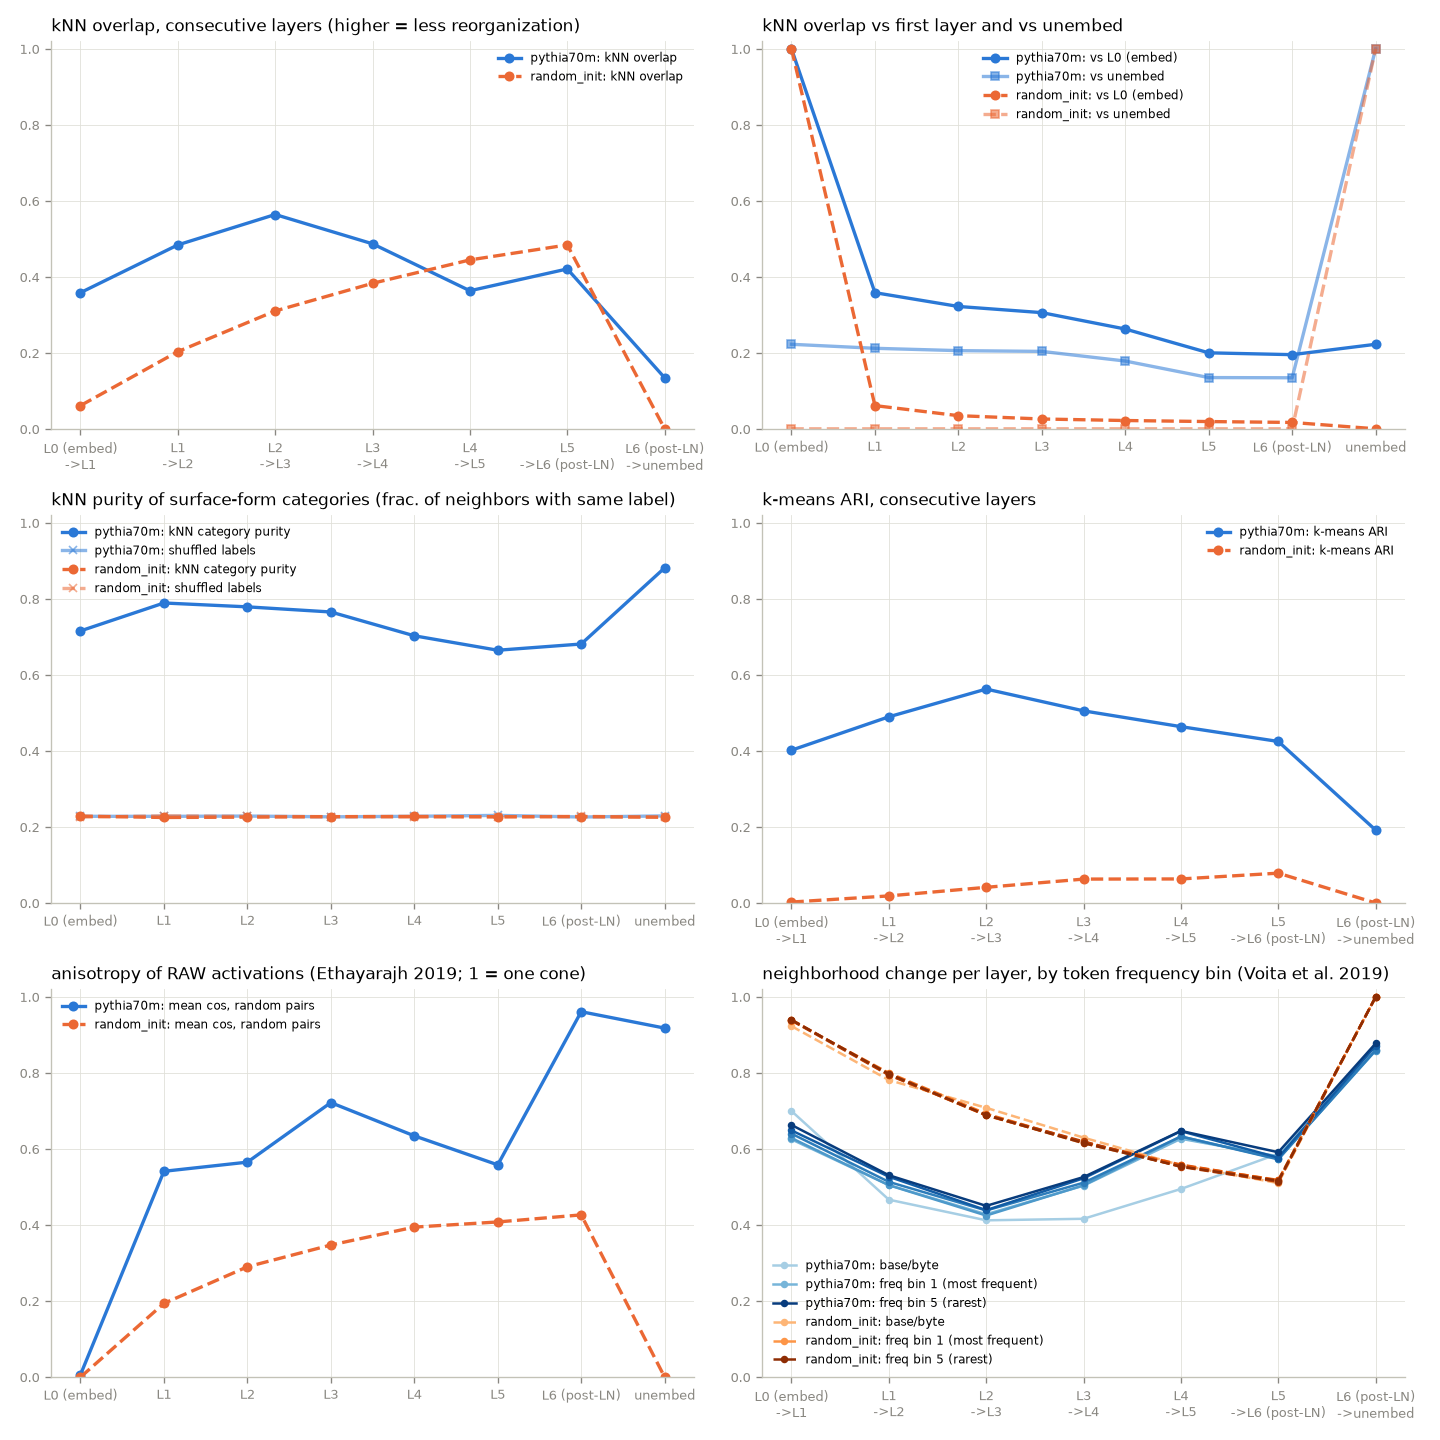
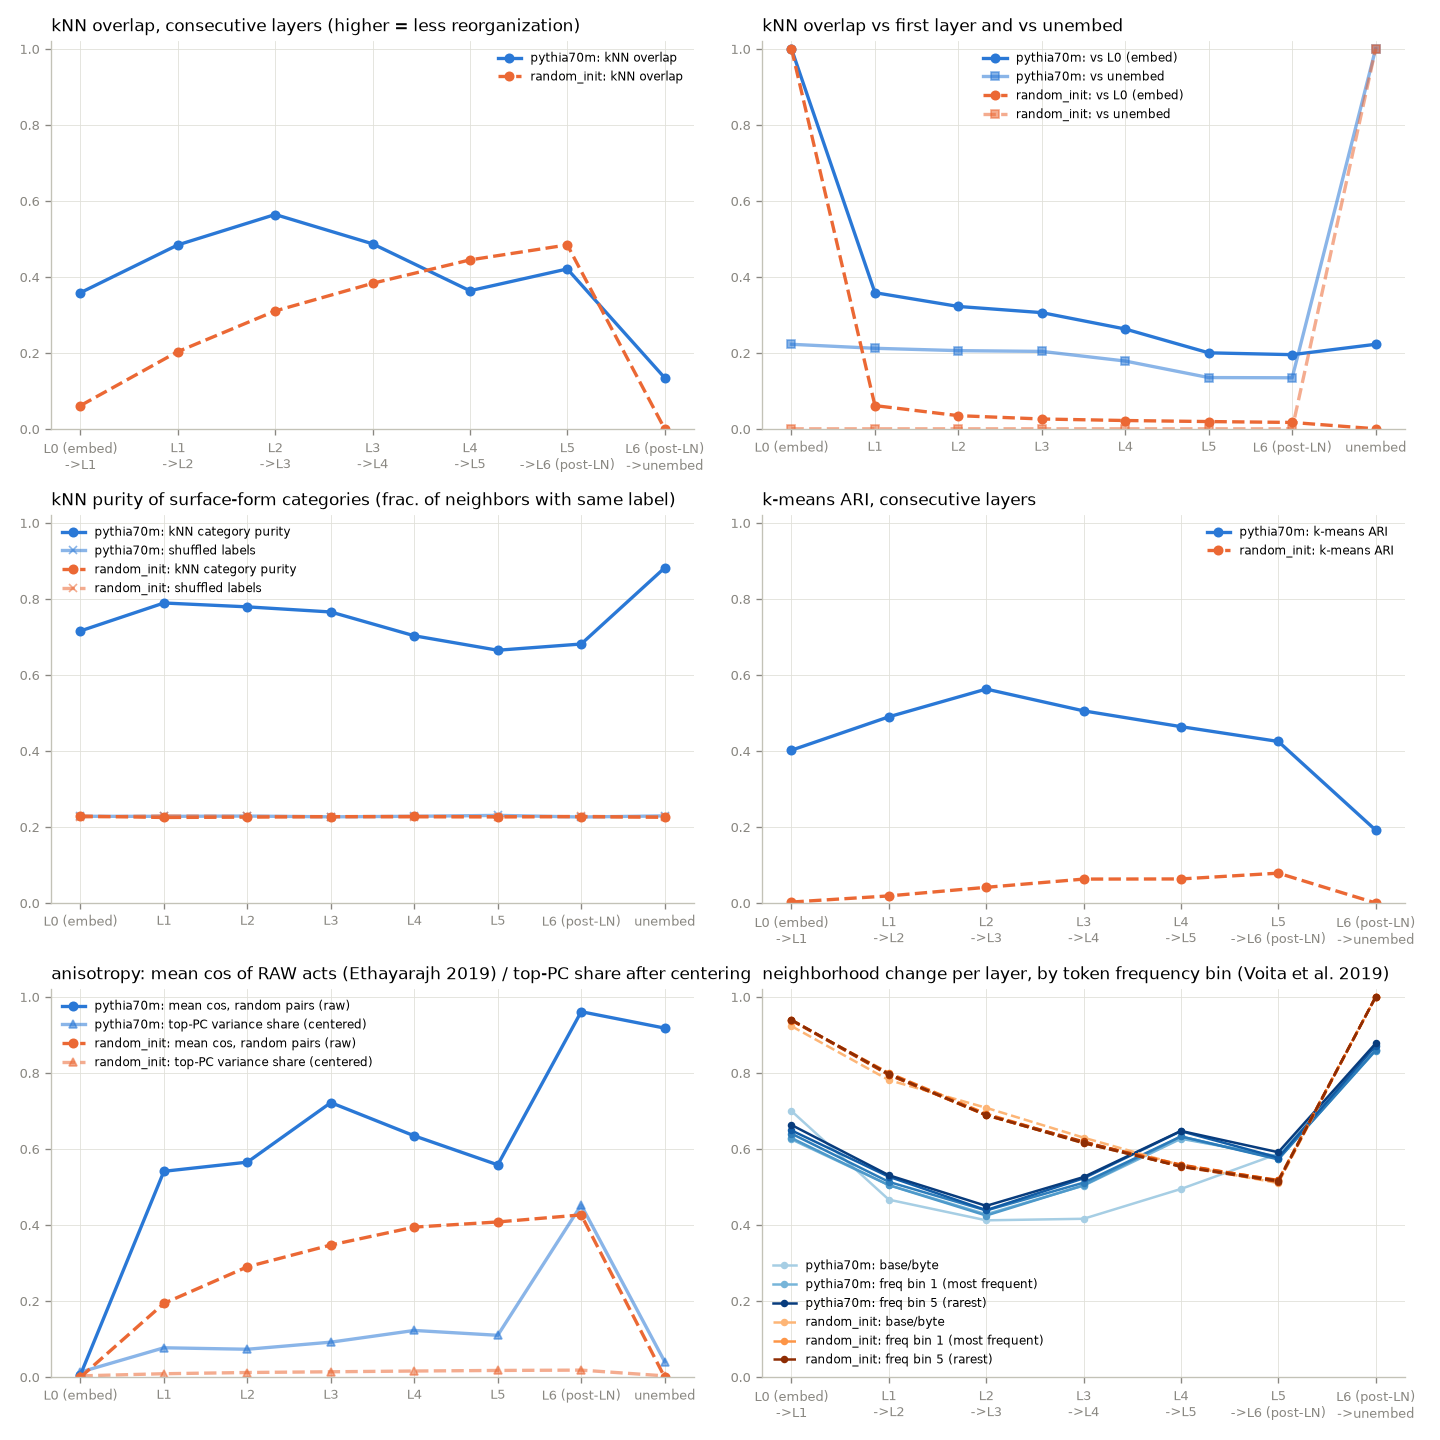
metrics: top-PC variance share (centered) on the anisotropy panel
Mean cosine of random pairs only sees a shared offset; a centered cigar reads 0.
top_pc_share() centers a raw layer and reports the fraction of variance on the
first PC, so the panel now shows offset (circles) and stretch (triangles) side by
side. Reran metrics for pythia70m, random_init, gpt2; refreshed the README figures.

diff --git a/src/token_drift/viz.py b/src/token_drift/viz.py
@@ -202,7 +202,13 @@ def plot_metrics(runs: dict[str, dict], out_path: str | Path, *, return_fig: boo
         ax_sil.plot(x_l, m["knn_purity"], ls, label=f"{run}: kNN category purity", **kw)
         ax_sil.plot(x_l, m["knn_purity_shuffled"], ls, label=f"{run}: shuffled labels", **{**kw, "marker": "x", "alpha": 0.55})
         if m.get("anisotropy") is not None:
-            ax_aniso.plot(x_l, m["anisotropy"], ls, label=f"{run}: mean cos, random pairs", **kw)
+            ax_aniso.plot(x_l, m["anisotropy"], ls, label=f"{run}: mean cos, random pairs (raw)", **kw)
+        if m.get("top_pc_share") is not None:
+            # same colour + linestyle as the run's mean-cos line, triangle marker + faded: the
+            # panel's other series, like "vs last" in the drift panel. Not a separate dash style,
+            # because "--" already means "second run".
+            ax_aniso.plot(x_l, m["top_pc_share"], ls, label=f"{run}: top-PC variance share (centered)",
+                          **{**kw, "marker": "^", "alpha": 0.55})
         if m.get("knn_change_by_freq") is not None:
             # one line per frequency bin, single hue light->dark: bin is a magnitude (rank), not an identity
             by_freq = np.asarray(m["knn_change_by_freq"], dtype=float)  # (transitions, bins)
@@ -224,7 +230,7 @@ def plot_metrics(runs: dict[str, dict], out_path: str | Path, *, return_fig: boo
     ax_drift.set_title("kNN overlap vs first layer and vs unembed", loc="left", fontsize=10)
     ax_sil.set_title("kNN purity of surface-form categories (frac. of neighbors with same label)", loc="left", fontsize=10)
     ax_ari.set_title("k-means ARI, consecutive layers", loc="left", fontsize=10)
-    ax_aniso.set_title("anisotropy of RAW activations (Ethayarajh 2019; 1 = one cone)", loc="left", fontsize=10)
+    ax_aniso.set_title("anisotropy: mean cos of RAW acts (Ethayarajh 2019) / top-PC share after centering", loc="left", fontsize=10)
     ax_freq.set_title("neighborhood change per layer, by token frequency bin (Voita et al. 2019)", loc="left", fontsize=10)
     for ax in axes.flat:
         _style_axes(ax)

diff --git a/src/token_drift/metrics.py b/src/token_drift/metrics.py
@@ -62,6 +62,19 @@ def anisotropy(x: np.ndarray, *, n_pairs: int = 4000, seed: int = 0) -> float:
     return float((xn[i[keep]] * xn[j[keep]]).sum(1).mean())
 
 
+def top_pc_share(x: np.ndarray) -> float:
+    """Fraction of total variance carried by the top principal component, after centering.
+
+    The shape check mean-cosine anisotropy can't do. A shared offset makes every random
+    pair's cosine high but vanishes under centering; a single stretched coordinate (a
+    "massive activation" dimension) survives centering and shows up here instead.
+    """
+    x = np.asarray(x, dtype=np.float32)
+    x = x - x.mean(0)
+    s = np.linalg.svd(x, compute_uv=False)  # singular values; s**2 are the PC variances
+    return float(s[0] ** 2 / (s**2).sum())
+
+
 def _per_row_change(a: np.ndarray, b: np.ndarray) -> np.ndarray:
     k = a.shape[1]
     inter = np.array([len(np.intersect1d(ra, rb)) for ra, rb in zip(a, b)])
@@ -135,9 +148,11 @@ def compute_all(
 
     knn = [knn_indices(x, knn_k) for x in xs]
     L = len(xs)
-    aniso = None
+    aniso = pc_share = None
     if raw_layers is not None:
-        aniso = [anisotropy(np.asarray(r[idx], dtype=np.float32), seed=seed) for r in raw_layers]
+        raws = [np.asarray(r[idx], dtype=np.float32) for r in raw_layers]
+        aniso = [anisotropy(r, seed=seed) for r in raws]
+        pc_share = [top_pc_share(r) for r in raws]  # centers internally; raw in, shape out
     by_freq = None
     if freq_bins is not None:
         fb = np.asarray(freq_bins)[idx]
@@ -160,6 +175,7 @@ def compute_all(
             kmeans_ari(xs[i], xs[i + 1], kmeans_k, seed) for i in range(L - 1)
         ],
         "anisotropy": aniso,
+        "top_pc_share": pc_share,
         "knn_change_by_freq": by_freq,
         "n_freq_bins": n_freq_bins if freq_bins is not None else None,
     }

diff --git a/tests/test_metrics.py b/tests/test_metrics.py
@@ -141,6 +141,21 @@ def test_anisotropy_is_mean_cosine_of_random_pairs(rng):
     assert anisotropy(cone, n_pairs=5000, seed=0) > 0.9
 
 
+def test_top_pc_share_sees_a_stretch_but_not_an_offset(rng):
+    from token_drift.metrics import anisotropy, top_pc_share
+
+    d = 64
+    iso = rng.normal(size=(3000, d))
+    assert top_pc_share(iso) < 3 / d  # isotropic: every PC ~1/d of the variance
+    stretched = iso.copy()
+    stretched[:, 0] *= 30  # one massive dimension
+    assert top_pc_share(stretched) > 0.9
+    # a shared offset makes mean-cos anisotropy fire but is NOT a variance direction
+    offset = iso + 50.0
+    assert anisotropy(offset, n_pairs=2000) > 0.9
+    assert top_pc_share(offset) < 3 / d
+
+
 def test_anisotropy_is_seeded(rng):
     from token_drift.metrics import anisotropy
 
@@ -175,6 +190,8 @@ def test_compute_all_takes_raw_layers_and_freq_bins(clustered, rng):
         raw_layers=raw, freq_bins=bins, n_freq_bins=3,
     )
     assert len(m["anisotropy"]) == 2 and m["anisotropy"][0] > m["anisotropy"][1]
+    # scale + shift leaves the top-PC share alone: it's about shape after centering
+    assert len(m["top_pc_share"]) == 2 and abs(m["top_pc_share"][0] - m["top_pc_share"][1]) < 1e-4
     assert np.asarray(m["knn_change_by_freq"]).shape == (1, 3)  # transitions x bins
     assert m["n_freq_bins"] == 3
     import json; json.dumps(m)
@@ -183,4 +200,4 @@ def test_compute_all_takes_raw_layers_and_freq_bins(clustered, rng):
 def test_compute_all_without_extras_still_works(clustered):
     x, labels = clustered
     m = compute_all([x, x], ["a", "b"], labels, knn_k=5, kmeans_k=4, seed=0, subsample=None)
-    assert m["anisotropy"] is None and m["knn_change_by_freq"] is None
+    assert m["anisotropy"] is None and m["top_pc_share"] is None and m["knn_change_by_freq"] is None

diff --git a/tests/test_viz.py b/tests/test_viz.py
@@ -62,6 +62,7 @@ def _fake_metrics(rng, L=4):
         "silhouette_shuffled": (rng.uniform(size=L) * 0.01).tolist(),
         "kmeans_ari_consecutive": rng.uniform(size=L - 1).tolist(),
         "anisotropy": rng.uniform(size=L).tolist(),
+        "top_pc_share": rng.uniform(size=L).tolist(),
         "knn_change_by_freq": rng.uniform(size=(L - 1, 5)).tolist(),
         "n_freq_bins": 5,
     }
@@ -94,3 +95,18 @@ def test_plot_metrics_has_six_panels_and_tolerates_missing_extras(tmp_path, rng)
     m["knn_change_by_freq"] = None
     plot_metrics({"r": m}, tmp_path / "four.png")  # old-format metrics.json must still plot
     assert (tmp_path / "four.png").exists()
+
+
+def test_anisotropy_panel_gets_top_pc_share_line_when_present(tmp_path, rng):
+    import matplotlib.pyplot as plt
+
+    m = _fake_metrics(rng)
+    fig = plot_metrics({"r": m}, tmp_path / "a.png", return_fig=True)
+    ax_aniso = fig.axes[4]
+    labels = [ln.get_label() for ln in ax_aniso.get_lines()]
+    assert len(labels) == 2 and any("raw" in l for l in labels) and any("centered" in l for l in labels)
+    plt.close(fig)
+    del m["top_pc_share"]  # metrics.json from before the field existed
+    fig = plot_metrics({"r": m}, tmp_path / "b.png", return_fig=True)
+    assert len(fig.axes[4].get_lines()) == 1
+    plt.close(fig)

diff --git a/src/token_drift/cli.py b/src/token_drift/cli.py
@@ -144,7 +144,8 @@ def stage_metrics(cfg: dict) -> Path:
     viz.plot_cka_heatmap(result, out / "cka.png")
     typer.echo(f"[metrics] knn_consecutive={np.round(result['knn_consecutive'], 3).tolist()}")
     typer.echo(f"[metrics] knn_purity={np.round(result['knn_purity'], 3).tolist()}")
-    typer.echo(f"[metrics] anisotropy={np.round(result['anisotropy'], 3).tolist()} ({time.time() - t0:.0f}s)")
+    typer.echo(f"[metrics] anisotropy={np.round(result['anisotropy'], 3).tolist()}")
+    typer.echo(f"[metrics] top_pc_share={np.round(result['top_pc_share'], 3).tolist()} ({time.time() - t0:.0f}s)")
     return rd
 
 

diff --git a/tests/test_cli.py b/tests/test_cli.py
@@ -87,7 +87,7 @@ def test_stage_metrics_writes_json_and_plots(fake_extract):
     assert len(m["knn_consecutive"]) == L + 1
     assert (md / "metrics.png").exists() and (md / "cka.png").exists()
     # literature checks ride along: anisotropy on raw acts, change by frequency bin
-    assert len(m["anisotropy"]) == L + 2
+    assert len(m["anisotropy"]) == L + 2 and len(m["top_pc_share"]) == L + 2
     assert np.asarray(m["knn_change_by_freq"]).shape == (L + 1, 6)
 
 

diff --git a/docs/FINDINGS.md b/docs/FINDINGS.md
@@ -102,7 +102,8 @@ Mean cosine between random token pairs on the *raw* (uncentered) activations.
   architectural. Suspected mechanism in our setup: position 1 attends to BOS, the BOS
   value contribution is identical for every token, and the residual accumulates it.
 - Pythia's final LayerNorm is violent: mean row norm 14 at L5 -> 438 at L6, and the top
-  PC explains 41% of L6's variance vs 8% at L5. A massive-activation dimension. The
+  PC explains 45% of L6's centered variance vs 11% at L5 (the triangle line in the
+  anisotropy panel). A massive-activation dimension. The
   unembed's 0.92 is a mean offset, not a variance direction (top PC 5%), so centering
   handles it; the L6 one survives centering as the hollow-ring look in the flipbook.
 - **The L6 offset is the final LayerNorm's bias, by name** (added 2026-09-18). The
@@ -113,6 +114,15 @@ Mean cosine between random token pairs on the *raw* (uncentered) activations.
   three coordinates with the largest mean (169, 181, 336) have LN gains of 17 to 20
   vs a median of 11, and after centering the top PC still carries 39% of the
   variance. That's the massive dimension: a per-axis stretch, not an offset.
+- **Top-PC share is now a curve** (added 2026-09-20): `top_pc_share` in metrics.json,
+  triangles in the anisotropy panel, computed on the same 10k subsample as everything
+  else. Pythia: 0.01 at L0, 0.07 to 0.12 through L1 to L5, 0.45 at L6, 0.04 at the
+  unembed (0.43 at L6 on the full vocab). GPT-2: 0.02 to 0.07 through L0 to L11, 0.57
+  at L12, 0.02 at the unembed. Random init never exceeds 0.02. The 39% above was a
+  one-off check on 09-18; the panel is the number of record. Two things the pair of
+  lines says at a glance: GPT-2's 0.72 mean-cos at L0 is pure offset (share 0.02), so
+  `wpe[1]` shifts the cloud without reshaping it; and the last-layer stretch is
+  *bigger* in GPT-2 than in Pythia even though Pythia's offset is the larger one.
 - Caveat on the metric: centered mean-cosine is ~0 for *any* centered cloud, ball or
   cigar (a synthetic 512-d cigar with one axis 20x wider reads -0.004 with a 44%
   top-PC share). Mean cosine only detects a shared offset; top-PC variance share is

diff --git a/README.md b/README.md
@@ -89,7 +89,8 @@ Same shape, same near-1.0 final layer. Three things his paper didn't have:
   position 1 attends to BOS, the BOS value is the same vector for every token, and the
   residual stream accumulates it. Partly a v0 artefact; v1 will tell.
 - **The final LayerNorm is violent.** Mean row norm goes 14 (L5) -> 438 (L6), and the top
-  PC explains 41% of L6's variance vs 8% at L5. That's a massive-activation dimension,
+  PC explains 45% of L6's centered variance vs 11% at L5 (the triangle line in the
+  anisotropy panel). That's a massive-activation dimension,
   and it's where `drop_top_pcs` would bite. The unembed's 0.92 turns out to be a mean
   offset rather than a variance direction (top PC only 5%), so centering handles it.
 
